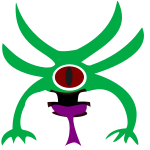
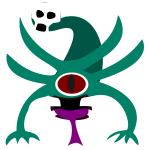
new alien types

diff --git a/space_invaders/space_invaders.py b/space_invaders/space_invaders.py
@@ -4,7 +4,7 @@ import pygame
 
 from space_invaders.settings import Settings
 from space_invaders.ship import Ship
-from space_invaders.alien import Alien, BossAlien, Titan
+from space_invaders.alien import Alien, BossAlien, Titan, MushroomBoss
 
 class SpaceInvaders:
     """Overall class to manage game assets and behavior."""
@@ -29,6 +29,7 @@ class SpaceInvaders:
         self.alien = Alien(self)
         self.boss_alien = BossAlien(self)
         self.titan = Titan(self)
+        self.mushroom_boss = MushroomBoss(self)
 
         # Set background color, RBG values are used
         self.bg_color = (63, 0, 70) # Lower RBG values for darker colors
@@ -57,5 +58,6 @@ class SpaceInvaders:
         self.alien.blitme()
         self.boss_alien.blitme()
         self.titan.blitme()
+        self.mushroom_boss.blitme()
     # Make the most recently drawn screen visible
         pygame.display.flip()

diff --git a/space_invaders/alien.py b/space_invaders/alien.py
@@ -57,3 +57,21 @@ class Titan:
     def blitme(self):
         """Draw the titan alien at its current location."""
         self.screen.blit(self.image, self.rect)
+
+class MushroomBoss:
+    """A class to manage the mushroom boss special class."""
+
+    def __init__(self, si_game):
+        """Initialize the mushroom boss."""
+        self.screen = si_game.screen
+        self.screen_rect = si_game.screen.get_rect()
+
+        image_path = '/Users/ja1473/space-invaders/assets/images/mushroom_boss.png'
+        self.image = pygame.image.load(image_path).convert_alpha()
+        self.rect = self.image.get_rect()
+
+        self.rect.midright = self.screen_rect.midright
+
+    def blitme(self):
+        """Draw mushroom boss to screen."""
+        self.screen.blit(self.image, self.rect)
